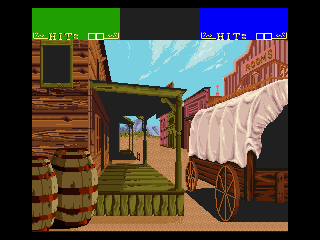
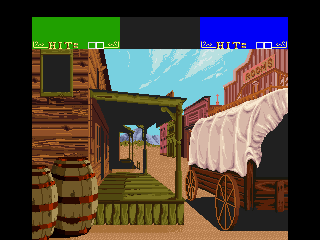
Added enemy green and rearrange positions

diff --git a/src/program/mainMenu/mainMenu.c b/src/program/mainMenu/mainMenu.c
@@ -12,6 +12,9 @@ MainMenu mainMenuCreate(Graphics graphics, Sprite *sprites, Sound sound)
     this.sound = sound;
     this.graphics = graphics;
     this.background = sprites[ASSET_BACKGROUND];
+    this.enemyGreenBig = sprites[ASSET_ENEMY_GREEN_BIG];
+    this.enemyGreenBig.position.y = this.graphics.imageData.size.y - this.enemyGreenBig.size.y;
+    this.enemyGreenBig.position.x = 40;
     this.shoot = sprites[ASSET_SHOOT];
     this.sight = sprites[ASSET_SIGHT];
     this.shouldQuit = false;
@@ -24,7 +27,7 @@ MainMenu handleControls(MainMenu this)
         glfwGetKey(this.graphics.window, GLFW_KEY_UP) == GLFW_PRESS)
     {
         this.sight.position.x = 42;
-        this.sight.position.y = 50;
+        this.sight.position.y = 55;
         spriteDrawTransparentClipped(this.sight, this.graphics.imageData);
         this.aimState = AIM_UP_LEFT;
         return this;
@@ -34,7 +37,7 @@ MainMenu handleControls(MainMenu this)
         glfwGetKey(this.graphics.window, GLFW_KEY_UP) == GLFW_PRESS)
     {
         this.sight.position.x = 260;
-        this.sight.position.y = 50;
+        this.sight.position.y = 55;
         spriteDrawTransparentClipped(this.sight, this.graphics.imageData);
         this.aimState = AIM_UP_RIGHT;
         return this;
@@ -43,7 +46,7 @@ MainMenu handleControls(MainMenu this)
     if (glfwGetKey(this.graphics.window, GLFW_KEY_LEFT) == GLFW_PRESS &&
         glfwGetKey(this.graphics.window, GLFW_KEY_DOWN) == GLFW_PRESS)
     {
-        this.sight.position.x = 55;
+        this.sight.position.x = 60;
         this.sight.position.y = 180;
         spriteDrawTransparentClipped(this.sight, this.graphics.imageData);
         this.aimState = AIM_DOWN_LEFT;
@@ -53,7 +56,7 @@ MainMenu handleControls(MainMenu this)
     if (glfwGetKey(this.graphics.window, GLFW_KEY_RIGHT) == GLFW_PRESS &&
         glfwGetKey(this.graphics.window, GLFW_KEY_DOWN) == GLFW_PRESS)
     {
-        this.sight.position.x = 220;
+        this.sight.position.x = 225;
         this.sight.position.y = 180;
         spriteDrawTransparentClipped(this.sight, this.graphics.imageData);
         this.aimState = AIM_DOWN_RIGHT;
@@ -62,7 +65,7 @@ MainMenu handleControls(MainMenu this)
 
     if (glfwGetKey(this.graphics.window, GLFW_KEY_UP) == GLFW_PRESS)
     {
-        this.sight.position.x = 120;
+        this.sight.position.x = 125;
         this.sight.position.y = 50;
         spriteDrawTransparentClipped(this.sight, this.graphics.imageData);
         this.aimState = AIM_TOP;
@@ -71,7 +74,7 @@ MainMenu handleControls(MainMenu this)
 
     if (glfwGetKey(this.graphics.window, GLFW_KEY_DOWN) == GLFW_PRESS)
     {
-        this.sight.position.x = 120;
+        this.sight.position.x = 125;
         this.sight.position.y = 180;
         spriteDrawTransparentClipped(this.sight, this.graphics.imageData);
         this.aimState = AIM_BOTTOM;
@@ -80,7 +83,7 @@ MainMenu handleControls(MainMenu this)
 
     if (glfwGetKey(this.graphics.window, GLFW_KEY_RIGHT) == GLFW_PRESS)
     {
-        this.sight.position.x = 260;
+        this.sight.position.x = 265;
         this.sight.position.y = 130;
         spriteDrawTransparentClipped(this.sight, this.graphics.imageData);
         this.aimState = AIM_RIGHT;
@@ -90,7 +93,7 @@ MainMenu handleControls(MainMenu this)
     if (glfwGetKey(this.graphics.window, GLFW_KEY_LEFT) == GLFW_PRESS)
     {
         this.sight.position.x = 55;
-        this.sight.position.y = 120;
+        this.sight.position.y = 125;
         spriteDrawTransparentClipped(this.sight, this.graphics.imageData);
         this.aimState = AIM_LEFT;
         return this;
@@ -118,6 +121,8 @@ MainMenu mainMenuUpdate(MainMenu this)
 
         spriteDrawClipped(this.background, this.graphics.imageData);
         this = handleControls(this);
+
+        spriteDrawTransparentClipped(this.enemyGreenBig, this.graphics.imageData);
 
         if (this.shoot.animation.isPlaying)
         {

diff --git a/src/program/assetManager/assetManager.c b/src/program/assetManager/assetManager.c
@@ -5,11 +5,13 @@ void spritesLoad(Sprite *this)
 {
     this[ASSET_BACKGROUND] = spriteCreate("assets/320x240Test.png");
     this[ASSET_SIGHT] = spriteCreate("assets/aimcross.png");
-    this[ASSET_SHOOT] = spriteCreate("assets/shoot.bmp");
 
+    this[ASSET_SHOOT] = spriteCreate("assets/shoot.bmp");
     this[ASSET_SHOOT].animated = true;
     this[ASSET_SHOOT].animation.frameCount = 4;
     this[ASSET_SHOOT].animation.currentFrame = 0;
     this[ASSET_SHOOT].animation.frameWidth = 55;
     this[ASSET_SHOOT].animation.frameRate = 10.;
+
+    this[ASSET_ENEMY_GREEN_BIG] = spriteCreate("assets/enemyGreenBig.bmp");
 }

diff --git a/src/program/mainMenu/mainMenu.h b/src/program/mainMenu/mainMenu.h
@@ -31,6 +31,7 @@ typedef struct
 {
     Graphics graphics;
     Sprite background;
+    Sprite enemyGreenBig;
     Sprite sight;
     Sprite shoot;
     PointI textPosition;

diff --git a/src/program/assetManager/assetManager.h b/src/program/assetManager/assetManager.h
@@ -6,6 +6,7 @@ enum Assets
     ASSET_BACKGROUND,
     ASSET_SIGHT,
     ASSET_SHOOT,
+    ASSET_ENEMY_GREEN_BIG,
     ASSET_COUNT
 };
 
